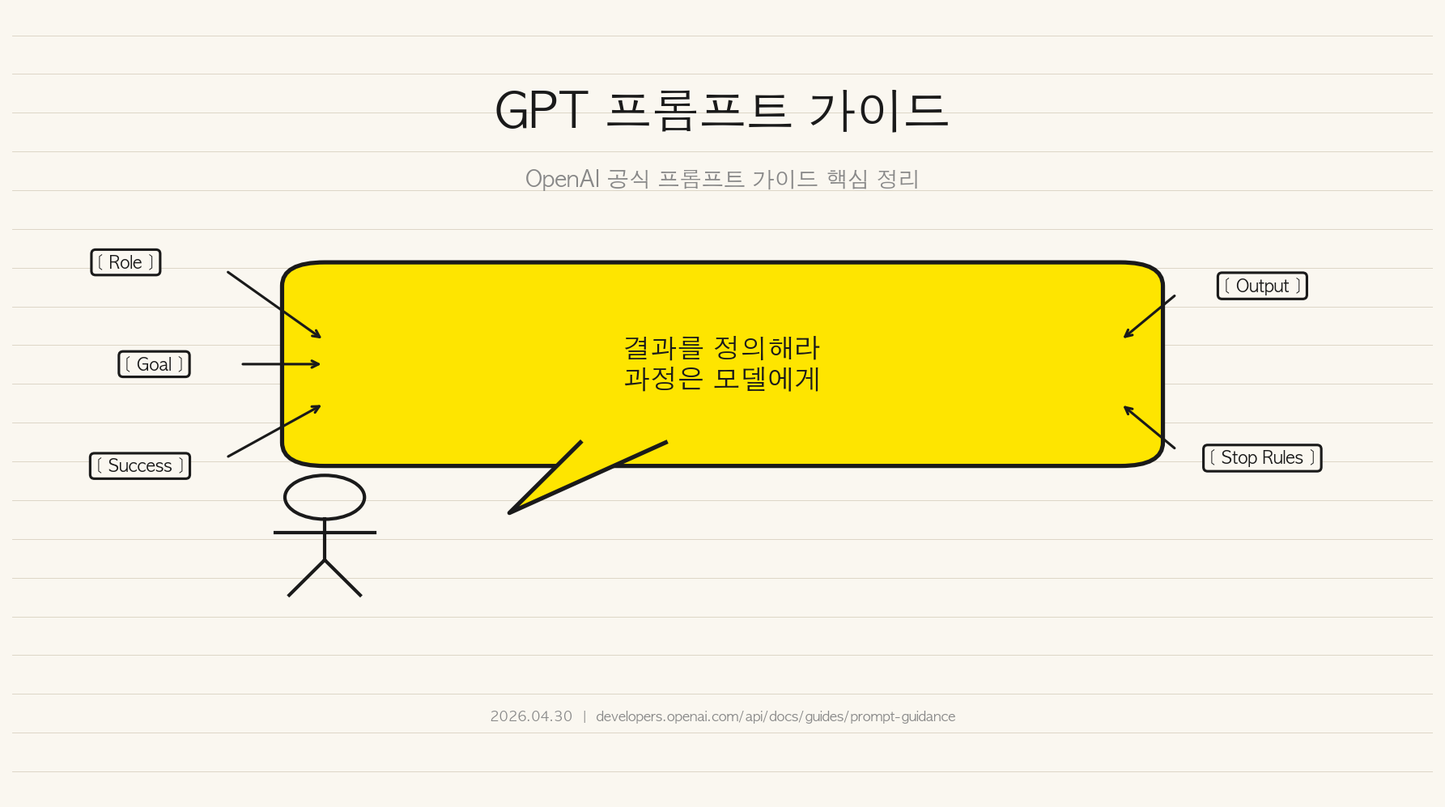
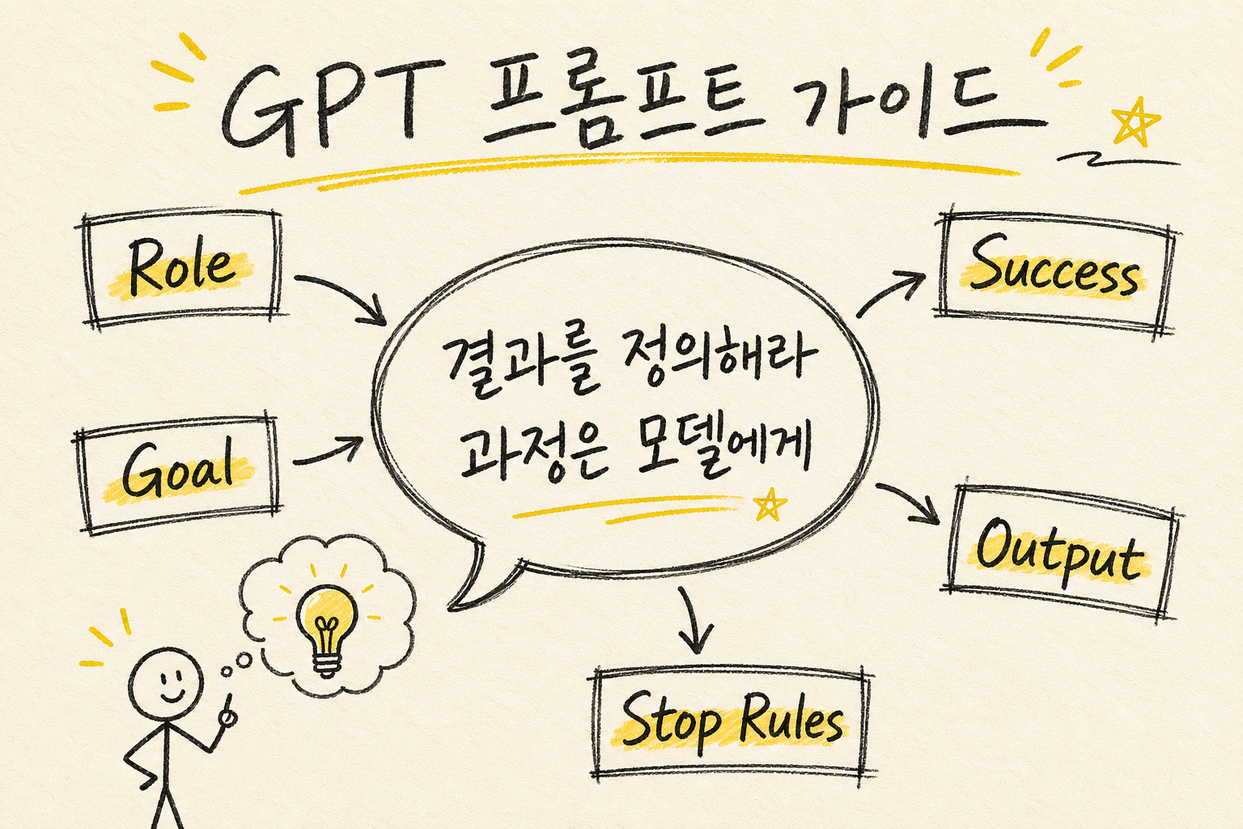
Replace matplotlib images with Codex AI-generated images

diff --git a/content/_drafts/2026-04-21/diet-pill-prescription-price-comparison-korea-2026-04-21.md b/content/_drafts/2026-04-21/diet-pill-prescription-price-comparison-korea-2026-04-21.md
@@ -1,0 +1,61 @@
+---
+title: "다이어트 약 처방받기, 가격 비교, 먼저 쪼개서 봐야 덜 헷갈림"
+date: 2026-04-21
+tags:
+  - 다이어트약
+  - 비만치료제
+  - 가격비교
+  - 처방
+  - 건강보험
+  - hira
+  - nhis
+  - mohw
+description: "다이어트 약 처방 가격은 약값 하나로 보면 계속 틀리게 됨. 진찰료, 처방전이 붙는 외래비, 약값, 약국 조제비, 비급여 항목을 나눠서 비교해야 덜 헷갈림."
+draft: true
+---
+
+# 다이어트 약 처방받기, 가격 비교, 먼저 쪼개서 봐야 덜 헷갈림
+
+다이어트 약 가격은 약값 하나만 보면 계속 오판하게 됨. 처방 비만약은 미용 상품이 아니라 진료가 먼저인 치료 옵션임.
+
+1. 다이어트 약은 먼저 진료 대상인지부터 보는 게 맞음. 국민건강보험공단 일반건강검진도 비만을 신장, 체중, 허리둘레, BMI로 확인함. 대한비만학회 2022 진료지침은 **체질량지수 25kg/㎡ 이상이면서 비약물치료로 체중 감량에 실패한 경우에 약물치료를 고려**한다고 적었음. 그리고 약물치료는 식사치료, 운동치료, 행동치료와 **함께 시행하는 부가적 치료**라고 못 박았음. 그래서 처방 여부는 체형 사진이나 후기보다 문진, 측정, 동반질환, 복용 중 약 확인이 먼저임.
+
+2. 가격 비교는 한 줄 가격표로 하면 안 됨. 병원에서 내는 돈은 보통 **초진·재진 진찰료와 처방전이 붙는 외래비**, 필요한 검사비, 그리고 비급여 상담이나 추가 측정비로 갈라짐. 약국에서는 다시 **약값과 조제기본료, 복약지도료, 조제료**가 붙으므로 같은 약 이름이어도 최종 결제액이 달라짐. 건강보험심사평가원도 약국비용 계산기 Q&A에서 **비급여 및 100/100 약제가 포함된 경우 실제 납부액과 계산기 금액이 다를 수 있다**고 안내함. 그래서 비교는 반드시 영수증 항목별로, 그리고 **병원비와 약국비를 합친 총액**으로 해야 덜 틀림.
+
+3. 어떤 약이 더 싼지보다 어떤 **비용 구조**인지 먼저 보는 게 맞음. 오르리스타트 계열은 경구제라서 비교가 단순해 보이지만 위장관 부작용 설명과 복용법 확인이 중요함. 부프로피온·날트렉손 복합제는 경구제지만 혈압, 정신건강 병력, 경련 위험 같은 확인 지점이 있어 문진 비중이 큼. 리라글루티드, 세마글루티드, 터제파타이드 같은 인크레틴 계열 주사제는 약값 비중이 커지기 쉬워서 병원 한 번 가격보다 **한 달 처방량과 재방문 주기**를 같이 봐야 함. 대한비만학회 지침은 **유지용량 3개월 내 5% 이상 체중 감량이 없으면 약제를 변경하거나 중단할 것**을 권고함. 그래서 **가장 싼 약**보다 내 몸에 맞는 약인지, 그리고 일정 기간 뒤 계속 갈 약인지 같이 봐야 안전함.
+
+4. 실전 비교는 네 가지만 맞추면 됨. **같은 진료과와 같은 의료기관 종별**, **같은 성분 또는 같은 계열**, **같은 처방일수**, **같은 비급여 포함 범위**로 맞춰서 봐야 함. 그리고 HIRA 비급여진료비정보, 진료비 확인, 의약품통합정보, 약국비용 계산기를 같이 써야 함. 급여 이력이 있는 의약품은 HIRA 의약품통합정보에서 확인할 수 있고, 영수증상의 전액본인부담과 비급여는 진료비 확인 제도로 다시 따져볼 수 있음. 결국 오늘 결제액 한 번보다 **4주 총액, 재진 빈도, 검사 반복 여부, 비급여 포함 여부**를 묶어서 보는 쪽이 현실적인 가격 비교임.
+
+**FAQ.**
+
+Q. 다이어트 약은 병원마다 왜 가격 차이가 큼?
+A. 진찰료, 검사, 비급여 상담, 처방일수, 약국 조제비가 같이 움직이기 때문임.
+
+Q. 약국비용 계산기 숫자와 실제 결제액이 다른 경우가 있음?
+A. 있음. HIRA도 비급여 및 100/100 약제가 포함되면 차이가 날 수 있다고 안내함.
+
+Q. 가장 싼 약으로 바로 시작하면 됨?
+A. 그렇게 고르면 위험할 수 있음. 적응증, 동반질환, 금기, 부작용 확인이 먼저임.
+
+**출처.**
+
+국민건강보험공단, 2022년 건강검진 안내 PDF  
+https://www.nhis.or.kr/static/html/wbma/c/checkup_2022.pdf
+
+대한비만학회, 비만 진료지침 2022  
+https://www.kosso.or.kr/inc/download_obesity.php?fno=1&num=10
+
+건강보험심사평가원, 외래진료시 본인부담률 및 부담액  
+https://www.hira.or.kr/dummy.do?pgmid=HIRAA030056020110
+
+건강보험심사평가원, 약국비용 계산기 Q&A  
+https://www.hira.or.kr/rb/calc/calculatorPop.do
+
+건강보험심사평가원, 진료비 확인  
+https://www.hira.or.kr/rb/npay/index.do?pgmid=HIRAA030009100000&WT.gnb=%EB%B9%84%EA%B8%89%EC%97%AC%EC%A7%84%EB%A3%8C%EB%B9%84+%ED%99%95%EC%9D%B8
+
+건강보험심사평가원, 의약품통합정보 급여이력정보  
+https://www.hira.or.kr/ra/medi/getHistoryList.do?pgmid=HIRAA030035020000&WT.gnb=%EC%9D%98%EC%95%BD%ED%92%88%ED%86%B5%ED%95%A9%EC%A0%95%EB%B3%B4
+
+보건복지부, 비대면진료 시 비만치료제 처방 제한  
+https://www.mohw.go.kr/board.es?mid=a10503010100&bid=0027&act=view&list_no=1483765&tag=&nPage=1

diff --git a/content/_drafts/2026-04-21/hanbang-diet-effect-analysis-2026-04-21.md b/content/_drafts/2026-04-21/hanbang-diet-effect-analysis-2026-04-21.md
@@ -1,0 +1,50 @@
+---
+title: "한방 다이어트 효과 분석, 단기 신호는 있지만 근거는 아직 약함"
+date: 2026-04-21
+draft: true
+tags:
+  - 한방 다이어트
+  - 한약 다이어트
+  - 비만 치료
+  - 체중 감량
+  - 건강 정보
+description: "한방 다이어트의 효과를 국내 공식 자료와 한국 학술 논문으로 검토했음. 단기 체중 감소 신호는 있으나 연구 수와 질이 제한적이고, 성분별 안전성과 약물 상호작용 확인이 필요함."
+keywords:
+  - 한방 다이어트 효과
+  - 한약 다이어트
+  - 비만 한약
+  - 체중 감량 근거
+  - 마황 부작용
+---
+
+한방 다이어트는 늘 관심이 큼.
+근데 데이터는 생각보다 덜 단순함.
+
+1. 단기 체중 감소 신호는 있음. 2022년 국내 체계적 문헌고찰과 메타분석에서는 태음조위탕 12주 투여군이 위약군보다 체중과 BMI에서 유의한 개선을 보였음. 체중 평균차는 MD -1.25 kg, BMI 평균차는 MD -0.39 kg/m²였음. 방향은 나쁘지 않았음. 근데 포함 연구는 2편, 총 153명뿐이었음. 이 숫자로 한방 다이어트 전체를 단정하기는 어려움.
+
+2. 범위를 넓히면 더 조심해야 함. 2025년 한방비만학회지 체계적 문헌고찰은 마황을 제외한 한약 중재 RCT 14편, 총 1,134명을 검토했음. 절반 정도 연구에서만 체중이나 BMI가 위약 대비 유의하게 줄었음. 중재 성분도 달랐고, 용량도 달랐고, 기간도 달랐고, 식이와 운동 개입도 제각각이었음. 그래서 저자들도 근거 신뢰도를 대부분 낮음 또는 매우 낮음으로 봤음. 짧게 말하면, 효과 신호는 있지만 재현성은 아직 약함.
+
+3. 기본은 결국 생활습관 중재임. 질병관리청 국가건강정보포털과 2024년 국내 비만 클리닉 지침도 식사, 운동, 행동 변화가 비만 관리의 중심이라고 봄. 약물치료도 충분한 평가 뒤에 보조적으로 붙는 구조임. 한약도 이 기본을 대체하는 카드로 읽으면 안 됨. 생활습관 개입이 같이 들어간 연구가 많아서, 체중이 줄어도 한약만의 효과로 깔끔하게 분리되지 않는 경우가 많았음.
+
+4. 안전성은 더 보수적으로 봐야 함. 일부 연구는 중대한 이상반응이 없었다고 보고했지만, 두드러기로 중단한 사례와 불면, 피로, 심계항진 계열 이상반응이 함께 보고됐음. 특히 마황처럼 교감신경계를 자극하는 성분은 고혈압, 부정맥, 협심증, 갑상선기능항진증 같은 상황에서 제약이 큼. 그리고 질병관리청도 한약제를 포함한 건강보조제는 다른 약과 상호작용이 심하거나 간, 신장 손상 가능성이 있을 수 있으니 주치의와 상의하라고 안내함. 결론은 이거임. 한방 다이어트는 단기 보조수단 후보일 수는 있음. 근데 지금 근거만으로 누구에게나 안전하고 확실하다고 말할 단계는 아님.
+
+---
+
+**FAQ**
+
+Q. 한방 다이어트는 실제로 살이 빠지나요?
+A. 단기 체중 감소 신호는 있음. 근데 연구 수가 적고 질이 고르지 않아서 확정적이라고 보기 어려움.
+
+Q. 마황이 없으면 안전한가요?
+A. 자동으로 안전한 건 아님. 성분, 용량, 기저질환, 같이 먹는 약에 따라 위험이 달라짐.
+
+Q. 시작 전에 무엇을 먼저 봐야 하나요?
+A. BMI, 허리둘레, 혈압, 기저질환, 복용약을 먼저 확인해야 함. 그리고 식사와 운동 계획이 같이 잡혀야 함.
+
+**출처**
+
+- [질병관리청 국가건강정보포털, 비만 어떻게 관리해야 할까요?](https://health.kdca.go.kr/healthinfo/biz/health/ntcnInfo/healthSourc/thtimtCntnts/thtimtCntntsView.do?thtimt_cntnts_sn=39)
+- [대한의사협회지, 일차의료기관에서의 비만 클리닉 진료 지침 (2024)](https://jkma.org/upload/pdf/jkma-2024-67-4-240.pdf)
+- [사상체질의학회지, 비만의 체질한약치료에 대한 체계적 문헌고찰 및 메타분석 (2022)](https://journal.kci.go.kr/JSCIM/archive/articlePdf?artiId=ART002855501)
+- [Journal of Korean Medicine for Obesity Research, Non-Ephedra Herbal Interventions for Obesity Treatment: A Systematic Review and GRADE-Based Assessment (2025)](https://www.jkomor.org/journal/view.html?uid=378&&vmd=Full)
+- [질병관리청 국가건강정보포털, 신장 이식, 약물 복용과 한약제 상호작용 주의](https://health.kdca.go.kr/healthinfo/biz/health/gnrlzHealthInfo/gnrlzHealthInfo/gnrlzHealthInfoView.do?cntnts_sn=6449)

diff --git a/content/40s-vitamin-d-deficiency-2026-04-30.md b/content/40s-vitamin-d-deficiency-2026-04-30.md
@@ -1,0 +1,48 @@
+---
+title: "40대 비타민 D 부족, 피곤함을 영양제만으로 넘기면 안 되는 이유"
+date: 2026-04-30
+slug: 40s-vitamin-d-deficiency-2026-04-30
+tags:
+  - 40대건강
+  - 비타민D
+  - 피로
+  - 근육통
+  - 중년건강
+description: 40대 피로와 근육통을 그냥 영양제 문제로 넘기기 쉬움. 햇빛 부족과 실내 생활이 만드는 비타민 D 결핍 신호를 정리함.
+---
+
+# 40대 비타민 D 부족, 피곤함을 영양제만으로 넘기면 안 되는 이유
+
+40대가 되면 피곤함이 너무 흔해서 원인을 대충 넘기기 쉬움. 근데 햇빛이 줄고 실내 시간이 길어지면 비타민 D 부족이 생각보다 조용히 쌓임.
+
+1. 비타민 D는 뼈만 보는 영양소가 아님. 칼슘 흡수와 뼈 건강, 근육 기능에 같이 걸려 있음. 몸이 버티는 바닥 체력을 받쳐주는 쪽임.
+
+2. 햇빛이 가장 큰 출발점임. MSD는 직사광선에 피부가 노출되면 몸이 비타민 D를 만든다고 설명함. NIH는 창문을 통과한 빛으로는 만들지 못한다고 적었음. 사무실 안에서 빛만 봐서는 부족하기 쉬웠음.
+
+![](./images/40s-vitamin-d-deficiency-2026-04-30/40s-vitamin-d-hero.png)
+
+3. 서울아산병원 자료를 보면 비타민 D 결핍 진료 인원이 2010년 3,118명에서 2014년 3만1,225명으로 약 10배 늘었음. 특히 2012년 이후 40대와 50대 진료 인원이 크게 증가했음. 이건 남 얘기가 아니었음.
+
+4. 40대에서 더 문제인 이유는 생활이 딱 맞물리기 때문임. 야근, 회식, 실내 업무, 운전, 주말 수면 보충이 이어지면 밖에 나갈 시간이 확 줄어듦. 햇빛은 중요한데 일정표에서 제일 먼저 밀림.
+
+5. 증상은 의외로 조용함. MSD는 비타민 D 결핍이 근육통, 쇠약, 뼈 통증을 만들 수 있다고 설명함. 피곤함도 같이 붙을 수 있음. 그래서 그냥 나이 탓으로 넘기기 쉬움.
+
+6. 몸이 신호를 주는 방식도 애매함. 계단이 유독 무겁고, 운동 뒤 회복이 느리고, 종아리나 허벅지가 자주 뻐근하면 한 번은 의심해야 함. 단순 과로와 결핍이 겹쳐 있을 수 있음.
+
+7. 검사로 확인하는 게 제일 깔끔함. 병원에서는 혈액검사로 `25(OH)D` 수치를 봄. 영양제부터 시작하기보다, 지금 정말 부족한지부터 보는 순서가 맞음.
+
+![](./images/40s-vitamin-d-deficiency-2026-04-30/40s-vitamin-d-diagram.png)
+
+8. 반대로 비타민 D를 무조건 많이 먹는다고 끝나진 않음. NIH는 보충제를 과하게 먹으면 메스꺼움, 구토, 근육 약화, 혼란, 신장결석 같은 문제가 생길 수 있다고 적었음. 햇빛은 몸이 스스로 양을 조절하지만, 보충제는 그게 아니었음.
+
+9. 그래서 실전은 단순함. 낮에 10~20분이라도 바깥을 걷고, 팔이나 다리에 빛을 좀 받게 하고, 생선·달걀·강화식품을 챙기고, 부족이 확인되면 그때 보충제를 논의하는 쪽이 맞음.
+
+10. 다만 피부암 걱정 때문에 무작정 햇빛을 오래 쬐라는 뜻은 아님. NIH도 SPF 15 이상 자외선차단제를 권하면서 균형을 강조함. 핵심은 오래 타는 게 아니라, 짧고 꾸준하게 바깥 생활을 넣는 거였음.
+
+![](./images/40s-vitamin-d-deficiency-2026-04-30/40s-vitamin-d-diagram.png)
+
+11. 40대는 특히 오해하기 쉬움. 피곤하니까 비타민을 먹고, 그래도 피곤하니까 커피를 더 마시고, 결국 몸이 계속 실내에 갇힘. 근데 문제는 영양제 하나가 아니라 생활의 방향이었음.
+
+12. 그래서 확인 포인트는 세 개면 됨. 햇빛을 얼마나 못 봤는지, 근육통이나 뼈 통증이 있는지, 검진에서 25(OH)D를 봤는지임. 이 셋이 같이 보이면 그냥 피곤한 날이 아닐 수 있음.
+
+13. 같이 보면 되는 자료는 서울아산병원 `비타민 D`(https://fm.amc.seoul.kr/asan/depts/fm/K/bbsDetail.do?menuId=378&contentId=254468), MSD 매뉴얼 `비타민 D 결핍`(https://www.msdmanuals.com/ko/home/%EC%98%81%EC%96%91-%EC%9E%A5%EC%95%A0/%EB%B9%84%ED%83%80%EB%AF%BC/%EB%B9%84%ED%83%80%EB%AF%BC-d-%EA%B2%B0%ED%95%8D), NIH ODS `Vitamin D Consumer`(https://ods.od.nih.gov/factsheets/VitaminD-Consumer/)임.

diff --git a/content/_drafts/2026-04-21/health-insurance-refund-application-korea-2026-04-21.md b/content/_drafts/2026-04-21/health-insurance-refund-application-korea-2026-04-21.md
@@ -1,0 +1,44 @@
+---
+title: "건강보험료 환급 신청, 먼저 돈의 종류부터 확인해야 함"
+date: 2026-04-21
+tags:
+  - 건강보험료 환급 신청
+  - 국민건강보험공단
+  - 본인부담금환급금
+  - 본인부담상한제
+  - 소득 부과 건강보험료 조정 정산
+description: 건강보험료 환급 신청이라고 검색해도 실제 제도는 하나가 아님. 보험료 정산 환급인지, 병원비 환급인지 먼저 구분해야 신청이 쉬워짐.
+---
+
+# 건강보험료 환급 신청, 먼저 돈의 종류부터 확인해야 함
+
+검색어는 하나처럼 보이는데 제도는 셋임.
+공단 홈페이지에서 어떤 돈인지 먼저 구분해야 헷갈리지 않음.
+
+1. `건강보험료 환급 신청`이라고 많이 부르지만 실제로는 같은 돈이 아님. 국민건강보험공단 홈페이지에는 `환급금 조회/신청` 메뉴가 따로 있고, 제도 안내에도 `본인부담상한제`와 `소득 부과 건강보험료 조정 정산 제도`가 따로 나와 있음. 이름이 비슷해서 한데 묶여 보이지만 성격은 다름.
+
+2. 보험료를 다시 계산한 뒤 돌려받는 경우에 가장 가까운 건 `소득 부과 건강보험료 조정 정산 제도`임. 공단은 이 제도를 소득에 대해 보험료 조정·정산을 신청하면 다음 해 11월에 국세청 등 확인소득으로 다시 계산해서 차액을 부과 또는 환급하는 제도라고 설명함. 그래서 이건 환급만 있는 제도가 아님. 정산 결과에 따라 추가 납부가 생길 수도 있음. 또 공단 안내상 온라인 신청은 소득이 감소한 경우만 가능함.
+
+3. 병원에서 낸 돈을 돌려받는 경우는 둘로 나뉨. `본인부담금환급금`은 심사평가원 심사나 보건복지부 현지조사 결과 병원이 본인부담금을 과다 수납한 사실이 확인됐을 때 돌려주는 돈임. `본인부담상한제`는 연간 건강보험 본인일부부담금 총액이 개인별 상한액을 넘었을 때 초과액을 공단이 부담하는 제도임. 둘 다 돌려받는 돈이지만, 엄밀히 말하면 `건강보험료 환급`이라기보다 `병원비 정산 또는 환급`에 가까움.
+
+4. 신청 동선도 조금 다름. 본인부담상한제는 공단이 지급대상자에게 안내문을 보낸 뒤 신청할 수 있고, 홈페이지와 모바일앱 `건강보험25시`, 고객센터, 지사 방문, 팩스, 우편으로 접수 가능함. 본인부담금환급금은 공단이 지급신청서를 보낸 뒤 계좌정보 등을 적어 신청하는 방식이고, 신청기간은 지급신청서를 받은 날부터 3년임. 결국 `내가 돌려받을 돈이 보험료 정산인지, 병원비 환급인지`부터 확인한 다음 공단 홈페이지의 `환급금 조회/신청`과 제도 안내를 같이 보는 게 가장 빠름.
+
+---
+
+**FAQ**
+
+Q. 건강보험료 환급 신청과 본인부담상한제는 같은 말임?
+A. 같지 않음. 본인부담상한제는 연간 본인일부부담금이 상한액을 넘었을 때 초과액을 돌려주는 제도임. 보험료 자체를 다시 계산해 돌려주는 제도와는 다름.
+
+Q. 소득이 줄었으면 자동으로 환급됨?
+A. 자동 환급으로 단정하면 안 됨. 공단은 소득에 대한 보험료 조정·정산을 신청한 경우 다음 해 11월에 차액을 부과 또는 환급한다고 안내함. 조정 신청이 필요한 경우가 있음.
+
+Q. 안내문이 없어도 확인할 수 있음?
+A. 공단 홈페이지에는 `환급금 조회/신청` 메뉴가 있음. 다만 본인부담상한제 초과금은 공단이 지급대상자에게 안내문을 발송한 뒤 신청 가능하다고 안내하고 있음.
+
+**출처**
+
+- 국민건강보험공단 메인 페이지, 환급금 조회/신청 및 제도 안내: https://www.nhis.or.kr/nhis/index.do;18452
+- 소득 부과 건강보험료 조정 정산 제도: https://www.nhis.or.kr/nhis/minwon/wbhapa01000m01.do?mode=view&articleNo=10946867
+- 본인부담상한제: https://www.nhis.or.kr/nhis/minwon/wbhapa01000m01.do?mode=view&articleNo=10946900
+- 본인부담금환급금: https://www.nhis.or.kr/static/html/wbma/c/wbmac0211.html

diff --git a/content/_drafts/2026-04-21/scaling-health-insurance-eligibility.md b/content/_drafts/2026-04-21/scaling-health-insurance-eligibility.md
@@ -1,0 +1,48 @@
+---
+title: "스케일링 건강보험 적용 대상, 연 1회 기준은 어디까지인가"
+date: 2026-04-21
+tags:
+  - 건강보험
+  - 스케일링
+  - 치석제거
+  - 치과
+  - 국민건강보험공단
+  - nhis
+description: "스케일링 건강보험은 만 19세 이상 건강보험 가입자 또는 피부양자 중 후속 치주질환 치료 없이 전악 치석제거만으로 끝나는 경우에 연 1회 적용됨. 연간 기준과 방문 전 확인할 점을 NHIS 기준으로 정리함."
+---
+
+치과 가기 전에 제일 많이 헷갈리는 게 이것임.
+스케일링 건강보험은 누구에게 적용되고, 연 1회는 정확히 어디까지인지 먼저 알아야 함.
+
+1. 대상부터 분명함. 만 19세 이상이어야 함. 건강보험 가입자 또는 피부양자여야 함. 그리고 후속 치주질환 치료 없이 전악 치석제거만으로 치료가 종료되는 경우여야 함. 예방 목적의 치석제거, 구취 제거, 착색 제거, 치아 교정이나 보철을 위한 치석제거는 비급여 기준임.
+
+2. 횟수는 연 1회임. 여기서 연 기준은 매년 1월 1일부터 12월 31일까지임. 작년 12월에 받았으면 올해 다시 1회 적용 가능함. 반대로 올해 1월에 건강보험 적용으로 받았으면 올해 12월 31일까지는 같은 기준으로 다시 적용되지 않음. 연 1회를 넘기면 비급여가 됨.
+
+3. 연 1회 카운트에 들어가는 것도 따로 봐야 함. 후속 치주치료 없이 스케일링만으로 끝나는 전악 치석제거가 그 대상임. 근데 잇몸치료 전 단계이거나 후속 치주질환 처치가 붙는 경우는 급여 기준이 달라짐. NHIS 치석제거 Q&A는 이런 경우 연령과 횟수 제한이 없는 기준이 따로 적용된다고 설명함. 그래서 같은 스케일링처럼 보여도 모두 연 1회 항목으로 처리되는 것은 아님.
+
+4. 치과 가기 전에 확인할 것도 단순함. 내가 올해 이미 건강보험 적용 스케일링을 받았는지 먼저 확인하면 됨. NHIS는 공단 홈페이지와 The건강보험 앱에서 치석제거 진료정보 조회가 가능하다고 안내함. 치과도 공단 요양기관정보마당으로 중복 급여 여부를 확인함. 예약 전에 올해 수진 이력을 확인하고, 이번 진료가 스케일링만으로 끝나는지 아니면 잇몸치료가 이어지는지 치과에 물어보면 헷갈릴 일이 줄어듦.
+
+FAQ.
+
+Q. 만 19세 미만은 건강보험 스케일링이 아예 안 되나?
+A. 일반적인 연 1회 전악 치석제거 기준은 만 19세 이상임. 다만 NHIS는 만 19세 미만도 치주질환 수술을 위한 전 단계의 전악 치석제거 및 부분 치석제거는 급여 적용이 가능하다고 안내함.
+
+Q. 올해 1월에 받았는데 12월에 한 번 더 보험 적용이 되나?
+A. 안 됨. 연간 기준이 1월 1일부터 12월 31일까지라서 같은 해에는 1회만 적용됨.
+
+Q. 내가 올해 받았는지 기억이 안 나면 어떻게 하나?
+A. NHIS 홈페이지, The건강보험 앱, 치과 병·의원, 공단 지사에서 연간 급여 횟수를 확인할 수 있음.
+
+출처.
+
+1) 국민건강보험공단, 치석제거 급여안내  
+https://www.nhis.or.kr/static/html/wbma/c/wbmac0218.html
+
+2) 국민건강보험공단, 다빈도 질의응답(치석제거) PDF  
+https://www.nhis.or.kr/static/html/wbha/d/a/wbhada13500m01_01.pdf
+
+3) 국민건강보험공단, 건강보험 적용되는 치과 시술항목  
+https://www.nhis.or.kr/static/alim/paper/oldpaper/202206/sub/17.html
+
+4) 국민건강보험공단, 1년에 한 번 스케일링 혜택 받자  
+https://www.nhis.or.kr/static/alim/paper/oldpaper/202404/sub/section1_5.html

diff --git a/content/_drafts/2026-04-21/implant-insurance-coverage-korea-2026-04-21.md b/content/_drafts/2026-04-21/implant-insurance-coverage-korea-2026-04-21.md
@@ -1,0 +1,51 @@
+---
+title: "임플란트 보험 적용 여부, 65세 이상이면 다 되는 건 아님"
+date: 2026-04-21
+tags:
+  - 임플란트
+  - 건강보험
+  - 국민건강보험
+  - 치과
+  - 노인임플란트
+description: 만 65세 이상 부분무치악 환자는 국민건강보험 치과임플란트 급여를 받을 수 있음. 평생 2개, 본인부담 30%, 사전등록이 필요하고 완전무치악과 비급여 재료는 제외됨.
+draft: true
+---
+
+임플란트는 나이만 넘겼다고 바로 보험되는 치료가 아님.
+
+등록, 치아 상태, 재료 기준까지 맞아야 됨.
+
+1. 대상부터 분명함. 만 65세 이상 건강보험 가입자나 피부양자여야 함. 그리고 상악 또는 하악이 부분무치악이어야 함. 완전무치악은 제외됨. 시술은 국민건강보험공단에 사전 등록한 뒤 시작해야 급여가 가능함. 등록은 보통 치과 병·의원이 요양기관 정보마당으로 대행함. 비급여로 시작했다가 중간에 만 65세가 되어도 소급 적용은 안 됨. 기준은 시술시작일임.
+
+2. 보장 범위도 좁고 분명함. 1인당 평생 2개까지임. 상·하악 구분 없이 적용됨. 급여 재료는 분리형 식립재료와 PFM 크라운임. 부분틀니와 중복급여도 허용됨. 근데 일체형 식립재료는 안 됨. PFM이 아닌 보철수복재료도 안 됨. 상악골을 관통해 관골에 식립하는 경우도 시술 전체가 비급여임.
+
+3. 본인부담금도 미리 알아야 됨. 일반 건강보험 대상자는 요양급여비용 총액의 30%를 부담함. 차상위는 자격에 따라 10% 또는 20%임. 의료급여는 1종 10%, 2종 20%임. 다만 임플란트에 같이 붙는 부가수술은 따로 봐야 됨. 골이식술, 상악동 거상술 같은 부가수술은 비급여임. 임플란트 본체가 급여라고 해서 여기까지 같이 되는 건 아님.
+
+4. 제외 기준과 사후관리도 중요함. 완전무치악은 임플란트 급여 대상이 아님. 잇몸 위에 올라온 자연치가 하나도 없는 상태도 사실상 완전틀니 대상이라 제외될 수 있음. 보철수복 후 3개월 이내 사후점검은 횟수 제한 없이 가능하지만 진찰료만 산정됨. 그리고 이 기간 유지관리는 동일한 병·의원에서 받아야 됨. 3개월이 지나면 보철수복 관련 유지관리는 비급여임. 진료단계 중 병·의원 이동도 원칙적으로 안 됨. 처음 치과를 고를 때 설명을 충분히 듣는 게 맞음.
+
+---
+
+**FAQ**
+
+Q. 65세만 넘으면 누구나 임플란트 보험이 되나요?
+A. 아님. 부분무치악, 사전등록, 급여 재료 기준을 같이 충족해야 됨.
+
+Q. 치아를 다 뽑은 상태도 보험이 되나요?
+A. 안 됨. 완전무치악은 임플란트 급여 대상이 아님.
+
+Q. 골이식도 같이 보험이 되나요?
+A. 안 됨. 골이식술, 상악동 거상술 같은 부가수술은 비급여임.
+
+Q. 시술 중간에 다른 치과로 옮길 수 있나요?
+A. 원칙적으로 안 됨. 요양기관 폐업이나 2단계 시술 실패 같은 예외에서만 재등록 절차가 가능함.
+
+**출처**
+
+1. 국민건강보험공단, 치과임플란트 급여안내  
+   https://www.nhis.or.kr/static/html/wbma/c/wbmac0221.html
+2. 국민건강보험공단, 건강보험 적용되는 치과 시술항목  
+   https://www.nhis.or.kr/static/alim/paper/oldpaper/202206/sub/17.html
+3. 국민건강보험공단, 치과임플란트 급여 관련 Q&A  
+   https://www.nhis.or.kr/static/html/wbma/c/wbmac0221_2.pdf
+4. 국민건강보험공단, 치과임플란트 급여기준 Q&A  
+   https://www.nhis.or.kr/static/html/wbma/c/wbmac0221_02.pdf
